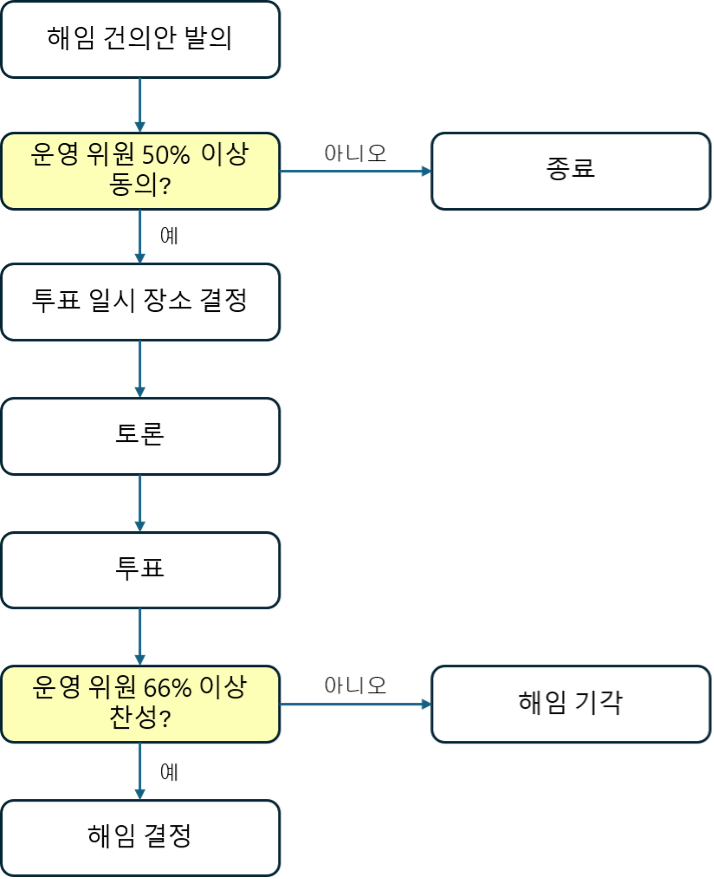
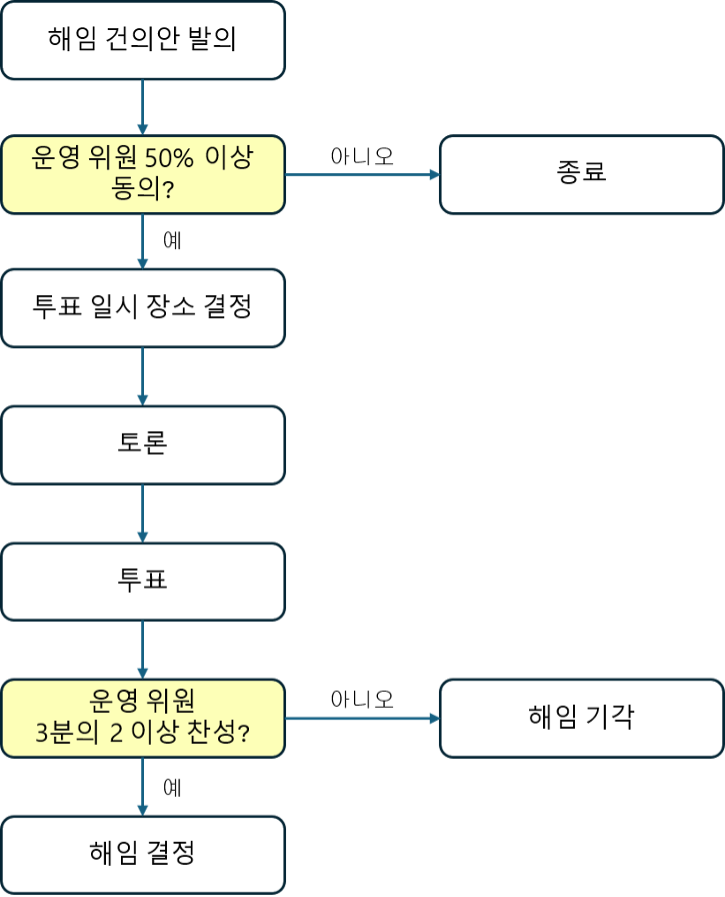
New v1

diff --git a/rule.md b/rule.md
@@ -19,7 +19,7 @@
 
 1. 투명성: 우리는 공정하고 투명한 의사결정을 추구하며, 이에 대한 책임과 공정성을 항상 유지합니다. 의사결정 과정은 명확하게 기록하고 공개합니다.
 2. 존중과 인권 보호: 우리는 모든 구성원의 인권을 존중하며, 그들의 다양성과 다름을 인정하고 이를 존중합니다. 성별, 연령, 인종, 종교, 성 정체성, 장애 등을 이유로 한 차별은 절대로 하지 않습니다.
-3. 정중하고 상호 존중하는 의사표현: 우리는 서로의 의견을 존중하고, 강한 감정 표현이나 욕설을 자제합니다. 모든 구성원은 서로를 존중하며, 유익하고 건설적인 대화를 유지하려고 노력합니다.
+3. 정중하고 상호 존중하는 의사 표현: 우리는 서로의 의견을 존중하고, 강한 감정 표현이나 욕설을 자제합니다. 모든 구성원은 서로를 존중하며, 유익하고 건설적인 대화를 유지하려고 노력합니다.
 4. 공동체 의식: 우리는 서로에 대한 존중과 상호 협력을 통해 강력한 공동체를 구축하려고 노력합니다. 서로의 의견을 존중하고, 협력하며, 함께 성장합니다.
 5. 봉사 정신: 우리는 대한민국의 시민과 더불어민주당을 위해 봉사하며, 공동의 이익을 위해 헌신합니다. 가능한 개인의 이익보다는 공동체의 이익을 우선합니다.
 6. 합법적인 행동: 우리는 모든 활동에서 합법적이고 윤리적인 행동을 추구합니다. 대한민국의 헌법과 법률, 그리고 더불어민주당의 당헌·당규를 준수하며, 부정행위는 절대로 하지 않습니다.
@@ -34,9 +34,9 @@
 
 1. 민서네 위원장은 민서네 전체 위원들이 민주적 절차에 따라 직접 투표하여 선출한 대표로서, 민주적 정당성을 지닌 권한을 부여받는다.
 2. 민서네 위원장은 민서네 부위원장 임명권 및 해임권, 운영 위원 선발권을 포함한 민서네의 모든 사안에 대한 최종적인 결정권을 행사할 수 있다. 단, 모든 결정은 운영 위원들과 충분한 논의와 소통을 거쳐 민주적 절차에 따라 진행되어야 한다.
-3. 민서네 위원장은 민서네의 대표 자격으로 더불어민주당 내의 회의 및 행사 등에 적극 참여 해야 한다.
+3. 민서네 위원장은 민서네의 대표 자격으로 더불어민주당 내의 회의 및 행사 등에 적극 참여해야 한다.
 4. 민서네 위원장은 민서네 전체 위원들을 대표하여 더불어민주당 내 영향력 강화와 질적•양적 성장을 포함하여 민서네의 목적 달성을 위해 노력해야 한다.
-5. 민서네 위원장은 운영 위원의 해임 건의안을 발의할 수 있고, 민서네 운영 지침 및 절차서의 민서네 부위원장 및 운영 위원의 해임(사임) 절차를 따른다.  
+5. 민서네 위원장은 운영 위원의 해임 건의안을 발의할 수 있고, 민서네 운영 지침 및 절차서의 민서네 부위원장 및 운영 위원의 해임(사임) 절차를 따른다.
 6. 민서네 위원장의 탄핵 및 사임은 민서네 운영 지침 및 절차서의 민서네 위원장의 탄핵 및 사임 절차에 따른다.
 7. 탄핵 및 사임 후 신임 민서네 위원장의 선출은 민서네 운영 지침 및 절차서의 신임 민서네 위원장의 선출 절차에 따른다.
 
@@ -83,7 +83,7 @@
   <figcaption>그림1. 민서네의 구조</figcaption>
 </figure>
 
-### 5.1운영 위원회
+### 5.1 운영 위원회
 
 #### 5.1.1 역할
 
@@ -352,7 +352,7 @@
 
 #### 6.1.7 신규로 실시간 소통 채널에 입장한 민서네 위원은 입장 후 1시간 이내에 대화명을 변경하지 않으면, 민서네 위원장 또는 소통위원이 이 규정을 다시 안내하고, 이후 2시간 이내에 변경하지 않을 경우 강제로 퇴실 조치할 수 있다.
 
-### 6.2 온라인 게시판 (민서네 네이버카페)
+### 6.2 온라인 게시판 (민서네 네이버 카페)
 
 #### 6.2.1 조직 및 운영
 
@@ -363,7 +363,7 @@
 
 #### 6.2.2 필수 게시판의 지정
 
-다음의 게시판은 언제나 게시글을 작성할 수 있게 오픈 되어 있어야 한다.
+다음의 게시판은 언제나 게시글을 작성할 수 있게 오픈되어 있어야 한다.
 
 1. 공지 게시판
 
@@ -380,7 +380,7 @@
 - 각 위원회의 회의록을 게시한다.
 - 회의록은 투명하게 공개되어야 하며, 모든 회원이 열람할 수 있어야 한다.
 
-4. 신고게시판
+4. 신고 게시판
 
 - 규칙 위반 사항이나 해당 행위를 신고할 수 있는 게시판이다.
 - 익명으로 신고할 수 있으며, 공통 양식을 사용하여 작성한다.
@@ -419,4 +419,4 @@
 
 #### 6.2.7 온라인 게시판에서 행동 규칙과 어긋난 행위를 발견한 경우, 누구나 신고 게시판에 신고할 수 있다. 신고 접수된 사안은 정기 운영 위원회 회의에서 회의 날짜 이전의 모든 신고 사항에 대해 논의하여 처리해야 한다.
 
-#### 6.2.8 제재를 받은 당사자 및 신고 사항에 대한 이의가 있는 자는 이의제기 게시판을 이용하여 언제든 이의제기할 권한이 있다. 이의제기 된 건에 대해 운영 위원회는 정기 운영 위원회 회의에서 회의 날짜 이전의 모든 이의제기 사항에 대해 논의하여 처리해야 한다
+#### 6.2.8 제재를 받은 당사자 및 신고 사항에 대한 이의가 있는 자는 이의제기 게시판을 이용하여 언제든 이의제기할 권한이 있다. 이의제기 된 건에 대해 운영 위원회는 정기 운영 위원회 회의에서 회의 날짜 이전의 모든 이의제기 사항에 대해 논의하여 처리해야 한다.

diff --git a/process_manual.md b/process_manual.md
@@ -75,7 +75,7 @@
 
 ### 2.3 승인 기준
 
-1. 대외 활동의 승인은 민서네 전체 위원의 30% 이상이 투표에 참여하고, 투표 참여 인원의 과반수 이상의 찬성을 얻어야 최종승인 된다.
+1. 대외 활동의 승인은 민서네 전체 위원의 30% 이상이 투표에 참여하고, 투표 참여 인원의 과반수의 찬성을 얻어야 최종승인 된다.
 2. 투표 참여율이 민서네 전체 위원의 30% 미만인 경우, 해당 안건은 무효로 처리된다.
 
 ### 2.4 신속처리 절차
@@ -87,9 +87,9 @@
 
 ### 3.1 탄핵 사유
 
-1. 중대한 명예훼손 : 민서네의 공적 이미지와 신뢰도를 현저히 저해하는 언행을 한 경우
-2. 직무 유기 : 합당한 사유 없이 회의를 지속적으로 연기하거나 불참하는 행위, 또는 회의록 작성을 소홀히 하는 등 직무를 성실히 수행하지 않는 경우
-3. 정보관리의 부실 : 민서네 전체 위원들의 개인정보를 부주의하게 관리하여 유출한 경우
+1. 중대한 명예훼손: 민서네의 공적 이미지와 신뢰도를 현저히 저해하는 언행을 한 경우
+2. 직무 유기: 합당한 사유 없이 회의를 지속적으로 연기하거나 불참하는 행위, 또는 회의록 작성을 소홀히 하는 등 직무를 성실히 수행하지 않는 경우
+3. 정보관리의 부실: 민서네 전체 위원들의 개인정보를 부주의하게 관리하여 유출한 경우
 
 ### 3.2 탄핵안의 발의 및 상정
 
@@ -142,7 +142,7 @@
 
 ### 5.1 해임 건의안의 발의
 
-1. 민서네 위원장과 민서네 부위원장은 운영 위원에 대한, 운영 위원은 민서네 부위원장과 다른 운영 위원에 대한 해임 건의안을 온라인 플랫폼을 통해 발의할 수 있다
+1. 민서네 위원장과 민서네 부위원장은 운영 위원에 대한, 운영 위원은 민서네 부위원장과 다른 운영 위원에 대한 해임 건의안을 온라인 플랫폼을 통해 발의할 수 있다.
 2. 민서네 위원은 민서네 부위원장, 운영 위원에 대한 해임 건의안을 온라인 플랫폼을 통해 발의할 수 있다.
 3. 민서네 부위원장과 운영 위원을 겸임하는 경우, 각 직책에 대해 개별적으로 해임 건의안을 발의해야 한다.
 4. 해임 건의안은 전체 운영 위원들의 과반 동의로 상정된다.
@@ -163,7 +163,7 @@
 ### 5.4 토론 및 투표
 
 1. 지정된 일시와 장소에서 해임 건의안에 관해 토론 후 최종 투표를 진행한다.
-2. 투표 참여 인원의 삼분의 이 이상이 찬성할 경우, 해당 민서네 부위원장 또는 운영 위원은 즉시 해임된다.
+2. 투표 참여 인원의 3분의 2 이상이 찬성할 경우, 해당 민서네 부위원장 또는 운영 위원은 즉시 해임된다.
 
 ### 5.5 해임의 결정
 
